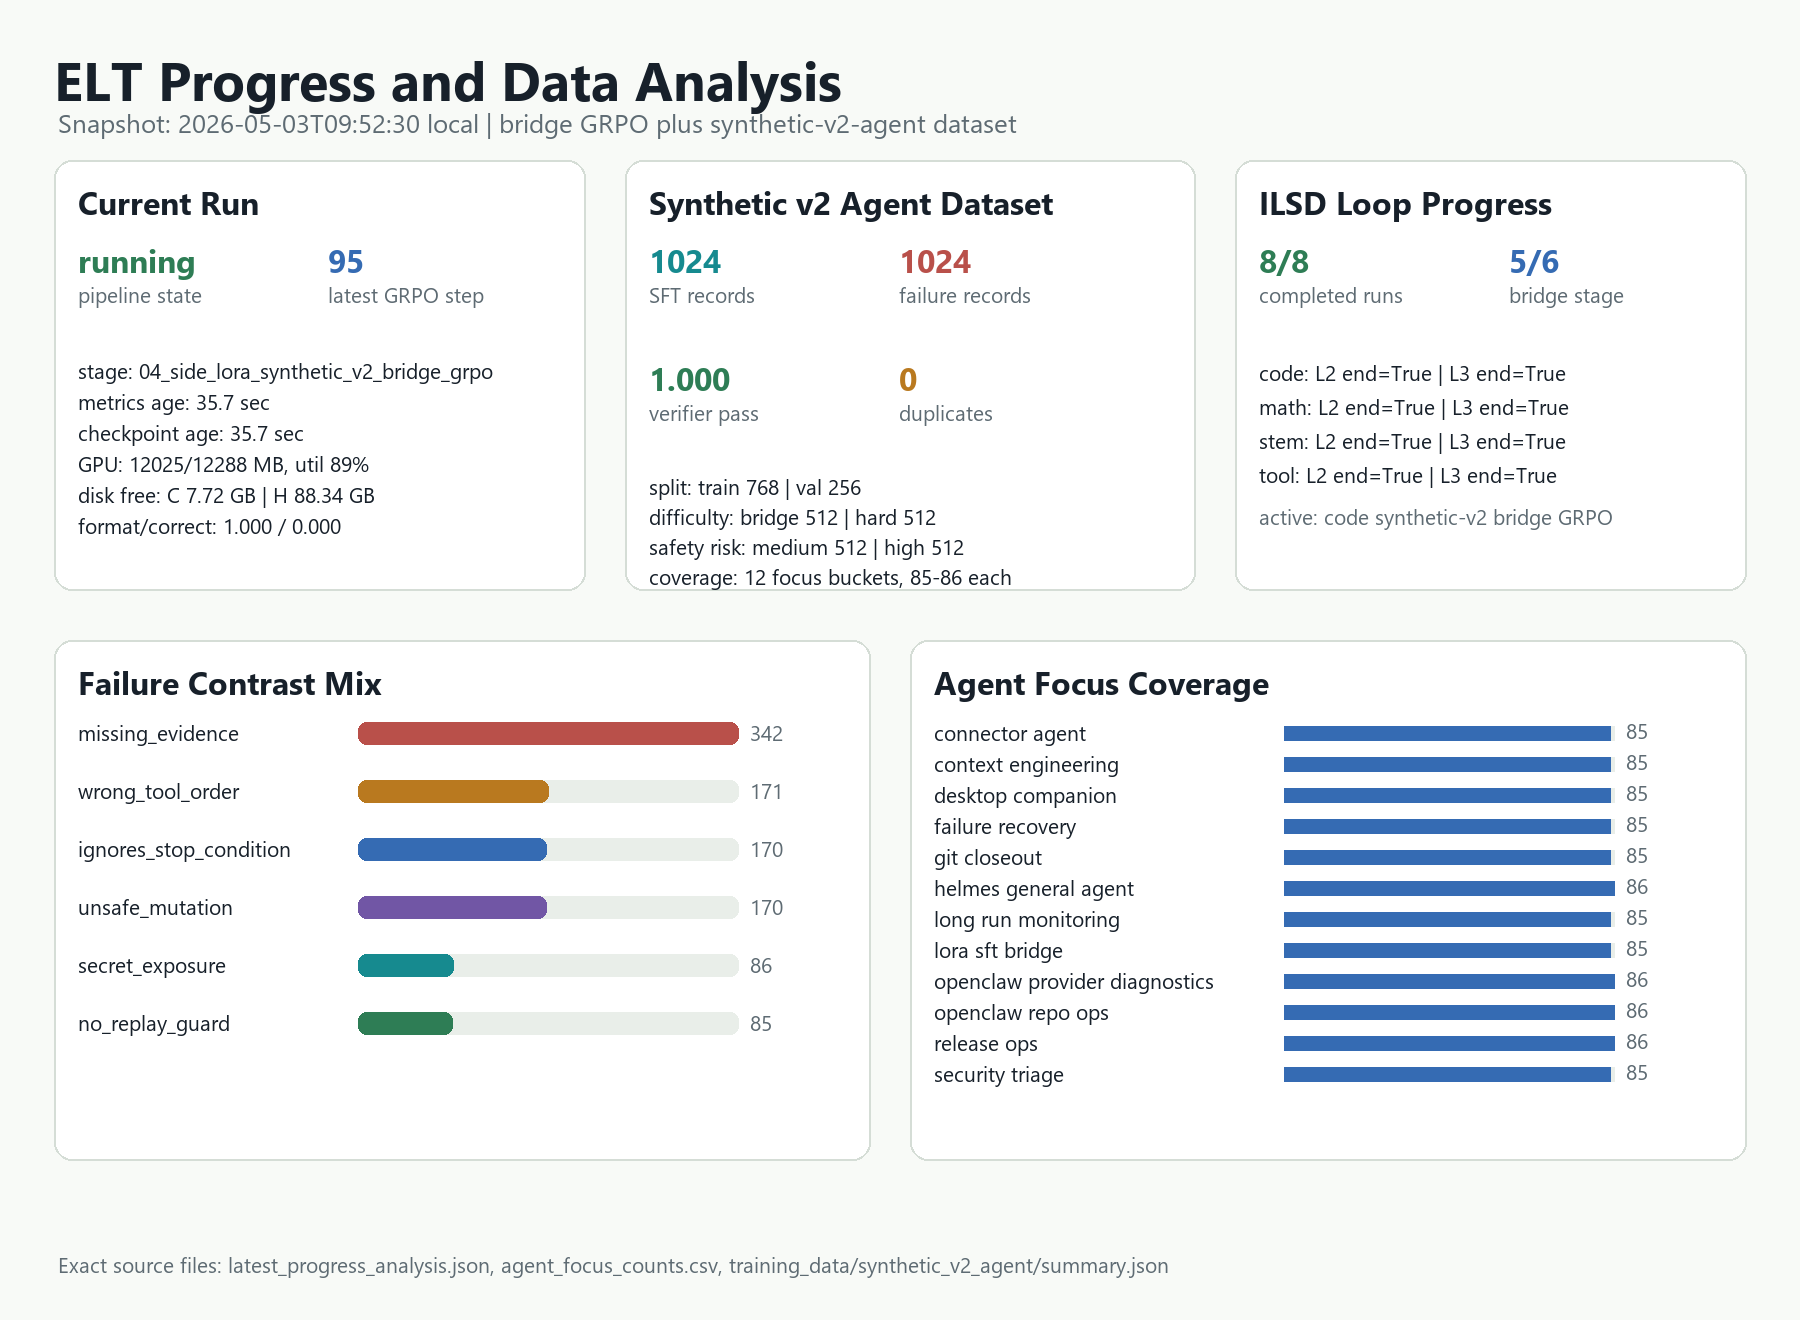
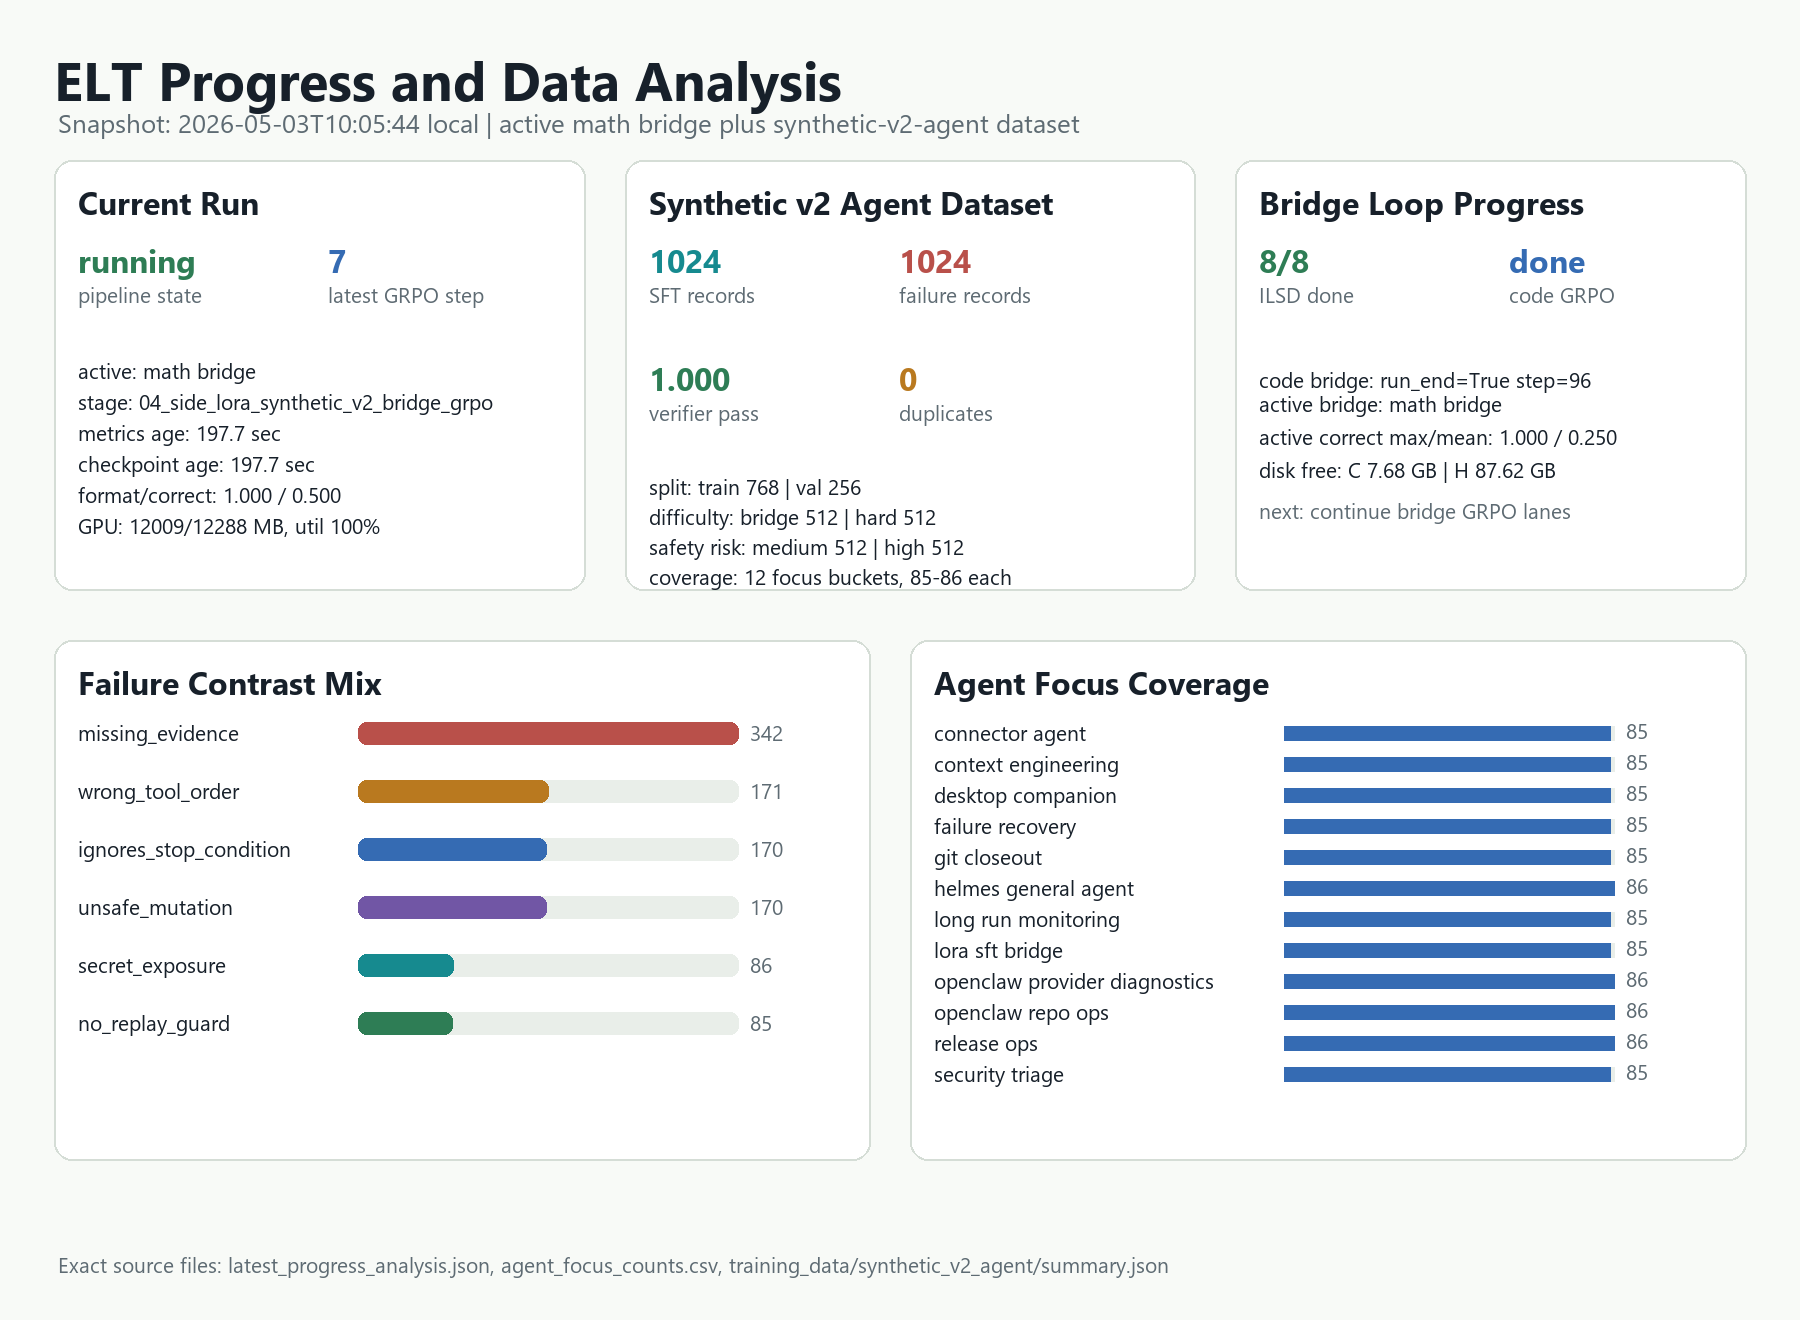
docs: refresh bridge progress analysis

diff --git a/_docs/2026-05-03-progress-data-analysis-gpt-5.md b/_docs/2026-05-03-progress-data-analysis-gpt-5.md
@@ -2,7 +2,7 @@
 
 ## Goal
 
-Capture the 2026-05-03 ELT progress snapshot, analyze the newly generated synthetic-v2-agent dataset, and add a project-local visual summary suitable for GPT Image handoff.
+Capture the 2026-05-03 ELT progress snapshot, analyze the newly generated synthetic-v2-agent dataset, and add project-local visual summaries including a GPT Image variant.
 
 ## Files touched
 
@@ -15,14 +15,15 @@ Capture the 2026-05-03 ELT progress snapshot, analyze the newly generated synthe
 
 ## Current progress snapshot
 
-- Generated at: `2026-05-03T09:52:30.162304+09:00`
+- Generated at: `2026-05-03T10:05:44.725681+09:00`
 - Pipeline state: `running` at `04_side_lora_synthetic_v2_bridge_grpo` (stage index 5 of 6).
-- Active bridge GRPO metrics: `H:\elt_data\runs\grpo_side_lora_code_synthetic_v2_bridge\metrics.jsonl`; latest parsed GRPO step `95`.
-- Latest GRPO format/correct rates: `1.000` / `0.000`; latest loss `0.000541`; latest KL `0.000687`.
-- GRPO nonzero-reward steps observed in current metrics: `25` of `96` parsed GRPO steps.
-- Checkpoint age at analysis time: `35.7` sec; metrics age `35.7` sec.
-- GPU snapshot from progress reporter: `12025/12288 MB`, util `89%`, temp `58 C`.
-- Disk snapshot from progress reporter: C `7.72` GB free; H `88.34` GB free.
+- Active bridge GRPO run: `H:\elt_data\runs\grpo_side_lora_math_synthetic_v2_bridge`; latest parsed GRPO step `7`.
+- Active latest format/correct rates: `1.000` / `0.500`; latest loss `-0.000716`; latest KL `0.000275`.
+- Active correct-rate max/mean so far: `1.000` / `0.250` across `8` parsed GRPO steps.
+- Completed code bridge GRPO: run_end `True`, final step `96`, final checkpoint age `830.2` sec at analysis time.
+- Active checkpoint age at analysis time: `197.7` sec; active metrics age `197.7` sec.
+- GPU snapshot from progress reporter: `12009/12288 MB`, util `100%`, temp `52 C`.
+- Disk snapshot from progress reporter: C `7.68` GB free; H `87.62` GB free.
 
 ## Synthetic-v2-agent dataset analysis
 
@@ -41,17 +42,13 @@ Capture the 2026-05-03 ELT progress snapshot, analyze the newly generated synthe
 
 ![GPT Image ELT progress infographic](assets/2026-05-03-progress-data-analysis/gptimage_elt_progress_infographic.png)
 
-The exact machine-readable snapshot is stored in `latest_progress_analysis.json`.
-`elt_progress_data_analysis.png` is the deterministic local chart with exact
-data labels. `gptimage_elt_progress_infographic.png` is the GPT Image variant
-generated from `gptimage_prompt.md`, with the verifier value locally corrected
-to `1.000`.
+The exact machine-readable snapshot is stored in `latest_progress_analysis.json`. `elt_progress_data_analysis.png` is the deterministic local chart with exact data labels. `gptimage_elt_progress_infographic.png` is the GPT Image variant generated from `gptimage_prompt.md`.
 
 ## Key decisions
 
 - Kept the analysis artifacts under `_docs/assets/` so runtime files under `H:/elt_data` remain local-only.
-- Treated progress reporter output as a snapshot, not a completion claim; the current bridge GRPO stage was still marked running.
-- Used deterministic local plotting for exact numbers and saved a GPT Image prompt separately for presentation-grade rendering.
+- Treated progress reporter output as a snapshot, not a completion claim; the bridge stage was still marked running while active metrics had moved to math GRPO.
+- Used deterministic local plotting for exact numbers and a separate GPT Image asset for presentation-grade rendering.
 
 ## Tests
 
@@ -75,6 +72,6 @@ Result: full suite passed.
 
 ## Next session notes
 
-- If bridge GRPO remains at zero correct rate after more nonzero-reward windows, inspect prompt/task mix before widening training.
+- Active bridge GRPO has moved from code to math; continue watching whether math maintains nonzero reward windows and correct-rate lift.
 - C: free space was low in the snapshot; keep large checkpoint/cache writes on H:.
 - Agent data is ready for a short low-LR lane LoRA SFT probe with replay and early stopping before bridge GRPO.

diff --git a/_docs/assets/2026-05-03-progress-data-analysis/gptimage_prompt.md b/_docs/assets/2026-05-03-progress-data-analysis/gptimage_prompt.md
@@ -1,11 +1,11 @@
 Use case: infographic-diagram
 Asset type: project progress illustration for a repository report
-Primary request: Create a polished landscape progress infographic for the Elastic Looped Transformer project. It should visualize the current training/data status in a serious engineering-research style.
+Primary request: Create a polished landscape progress infographic for the Elastic Looped Transformer project using ONLY the exact text and numbers listed below. Do not invent any extra metrics.
 Scene/backdrop: clean lab notebook meets command dashboard, off-white background, thin grid lines, compact data cards, no decorative blobs.
-Subject: ELT progress snapshot with three zones: current bridge GRPO run, synthetic-v2-agent dataset quality, and ILSD loop completion.
+Subject: ELT progress snapshot with active math bridge GRPO, completed code bridge GRPO, synthetic-v2-agent dataset quality, and ILSD loop completion.
 Style/medium: high-resolution editorial data infographic, crisp layout, restrained color accents in green, blue, amber, red, and teal.
 Composition/framing: 16:9 landscape, top title, three KPI cards across the top, two horizontal bar sections at bottom.
-Text (verbatim): "ELT Progress | 2026-05-03", "Bridge GRPO running", "Step 95", "1024 SFT + 1024 failure", "Verifier 1.000", "Duplicates 0", "ILSD 8/8 complete", "Focus buckets 12".
+Text (verbatim, use only these labels and values): "ELT Progress | 2026-05-03"; "Math bridge GRPO running"; "Step 7"; "Code bridge complete step 96"; "1024 SFT + 1024 failure"; "Train 768"; "Val 256"; "Verifier 1.000"; "Duplicates 0"; "ILSD 8/8 complete"; "Focus buckets 12"; "missing_evidence 342"; "wrong_tool_order 171"; "unsafe_mutation 170"; "ignores_stop_condition 170"; "secret_exposure 86"; "no_replay_guard 85".
 Data to reflect visually: train 768, val 256; difficulty bridge 512 and hard 512; safety medium 512 and high 512; failure contrast counts missing_evidence 342, wrong_tool_order 171, unsafe_mutation 170, ignores_stop_condition 170, secret_exposure 86, no_replay_guard 85.
-Constraints: keep numbers legible, use exact text where possible, no logos, no watermark, no fictional metrics, no dark blurred background.
+Constraints: no GPU numbers, no disk numbers, no stage index, no checkpoint age, no percentages, no extra dates, no extra domain counts, no logos, no watermark, no fictional metrics. If text is hard to render, omit it rather than inventing values.
 Avoid: marketing hero art, vague AI brain imagery, illegible tiny text, stock-photo people, one-color purple palette.
